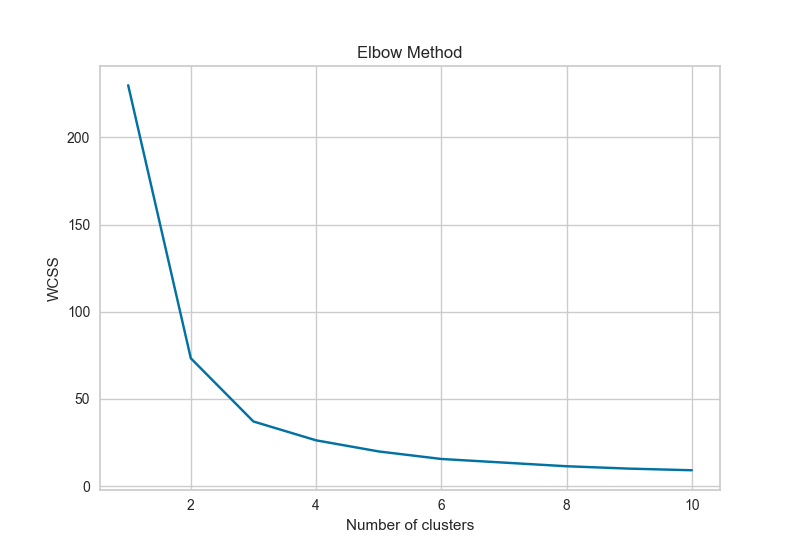
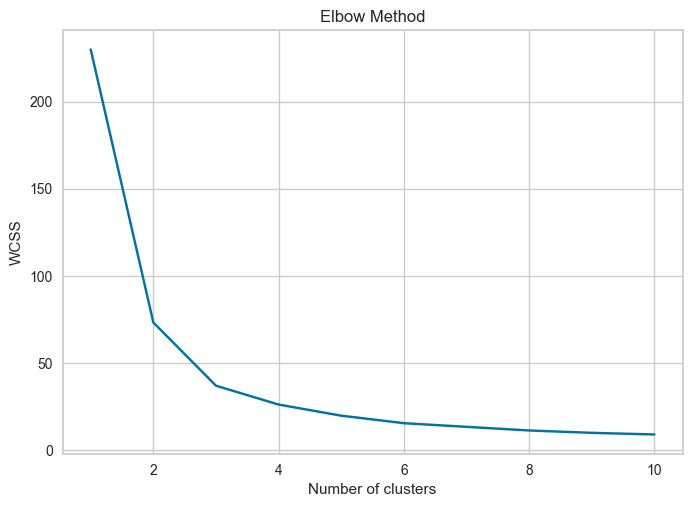
Gráficos corrigidos

diff --git a/gdp_vs_happiness.py b/gdp_vs_happiness.py
@@ -44,7 +44,7 @@ def Kmeans_Country_HappinessvGDP(dataset):
     plt.title('Elbow Method')
     plt.xlabel('Number of clusters')
     plt.ylabel('WCSS')
-    plt.savefig("data/results/happiness/ElbowMethod.png")
+    plt.savefig("data/results/happiness/ElbowMethod.png", bbox_inches="tight")
     plt.show()
 
     # As seen in the previous plot, the ideal number of clusters is 3
@@ -56,7 +56,7 @@ def Kmeans_Country_HappinessvGDP(dataset):
     plt.legend(bbox_to_anchor=(1.05, 1), loc=2, borderaxespad=0.)
     plt.xlabel('Happiness Score')
     plt.ylabel('GDP per capita')
-    plt.savefig("data/results/happiness/HappinessVsGDPPerCapitaWithClusters.png")
+    plt.savefig("data/results/happiness/HappinessVsGDPPerCapitaWithClusters.png", bbox_inches="tight")
     plt.show()
 
 
@@ -108,7 +108,7 @@ def KMeans_Region_HappinessvGDP(df):
     plt.legend(bbox_to_anchor=(1.05, 1), loc=2, borderaxespad=0.)
     plt.xlabel('Happiness Score')
     plt.ylabel('GDP per capita')
-    plt.savefig("data/results/happiness/HappinessVsGDPPerCapitaWithClusters.png")
+    plt.savefig("data/results/happiness/HappinessVsGDPPerCapitaWithClusters.png", bbox_inches="tight")
     plt.show()
 
 

diff --git a/happiness_correlation.py b/happiness_correlation.py
@@ -17,11 +17,11 @@ if __name__ == '__main__':
     mask = np.triu(np.ones_like(correlation_matrix))
     heatmap = sns.heatmap(correlation_matrix, annot=True, vmin=-1, vmax=1, cmap='BrBG', mask=mask)
     heatmap.set_title('Correlation Heatmap', fontdict={'fontsize': 12}, pad=12)
-    plt.savefig('data/results/happiness/CorrelationMatrix.png')
+    plt.savefig('data/results/happiness/CorrelationMatrix.png', bbox_inches = 'tight')
     plt.show()
 
     heatmap = sns.heatmap(happiness_iv, vmin=-1,
                           vmax=1, annot=True, cmap='BrBG')
     heatmap.set_title('Features correlating with Happiness Score',  fontdict={'fontsize': 12}, pad=12)
-    plt.savefig('data/results/happiness/FeaturesCorrelatingHappiness.png')
+    plt.savefig('data/results/happiness/FeaturesCorrelatingHappiness.png', bbox_inches = 'tight')
     plt.show()
